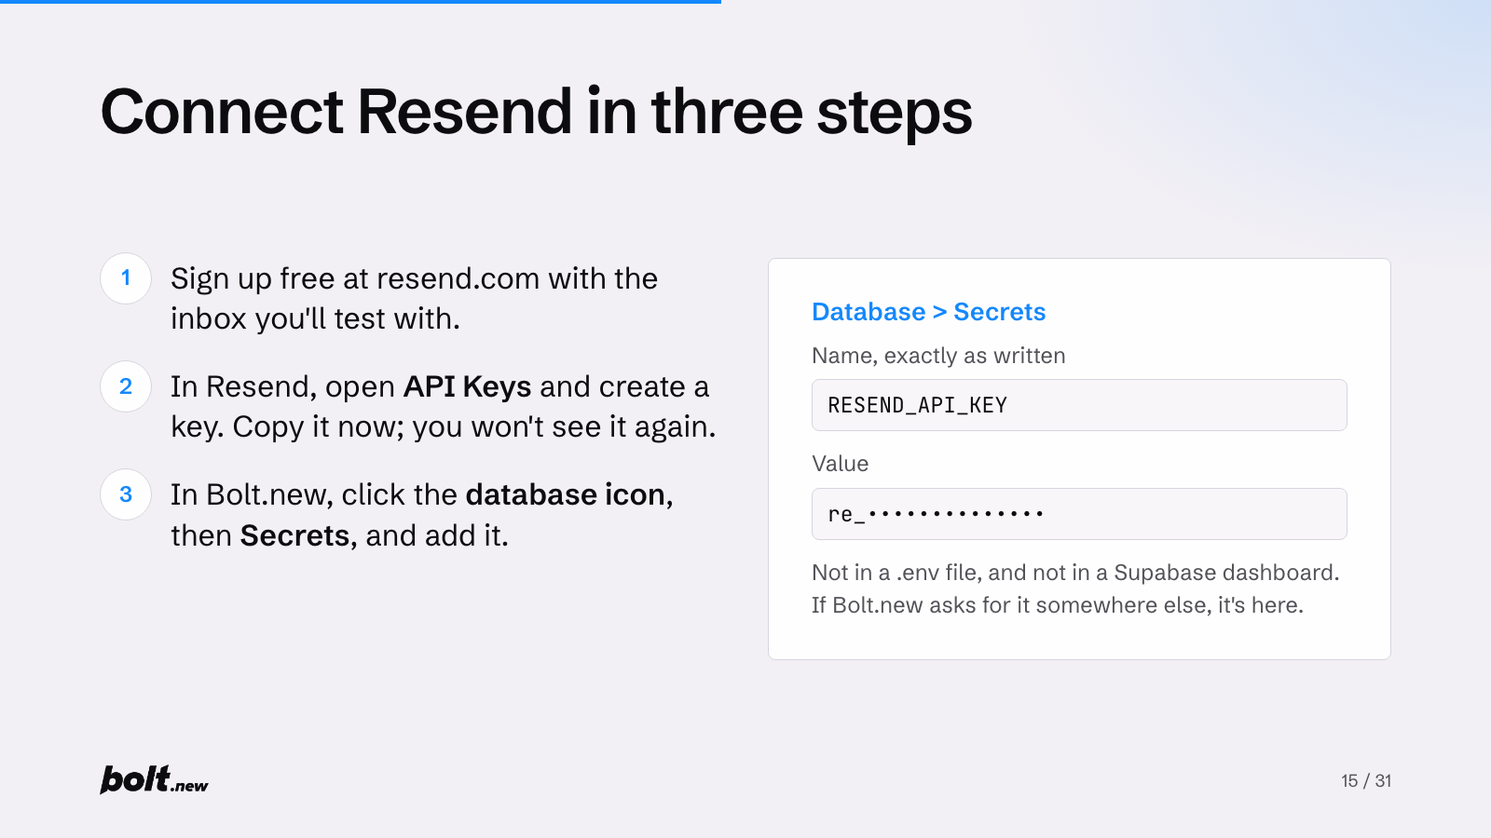
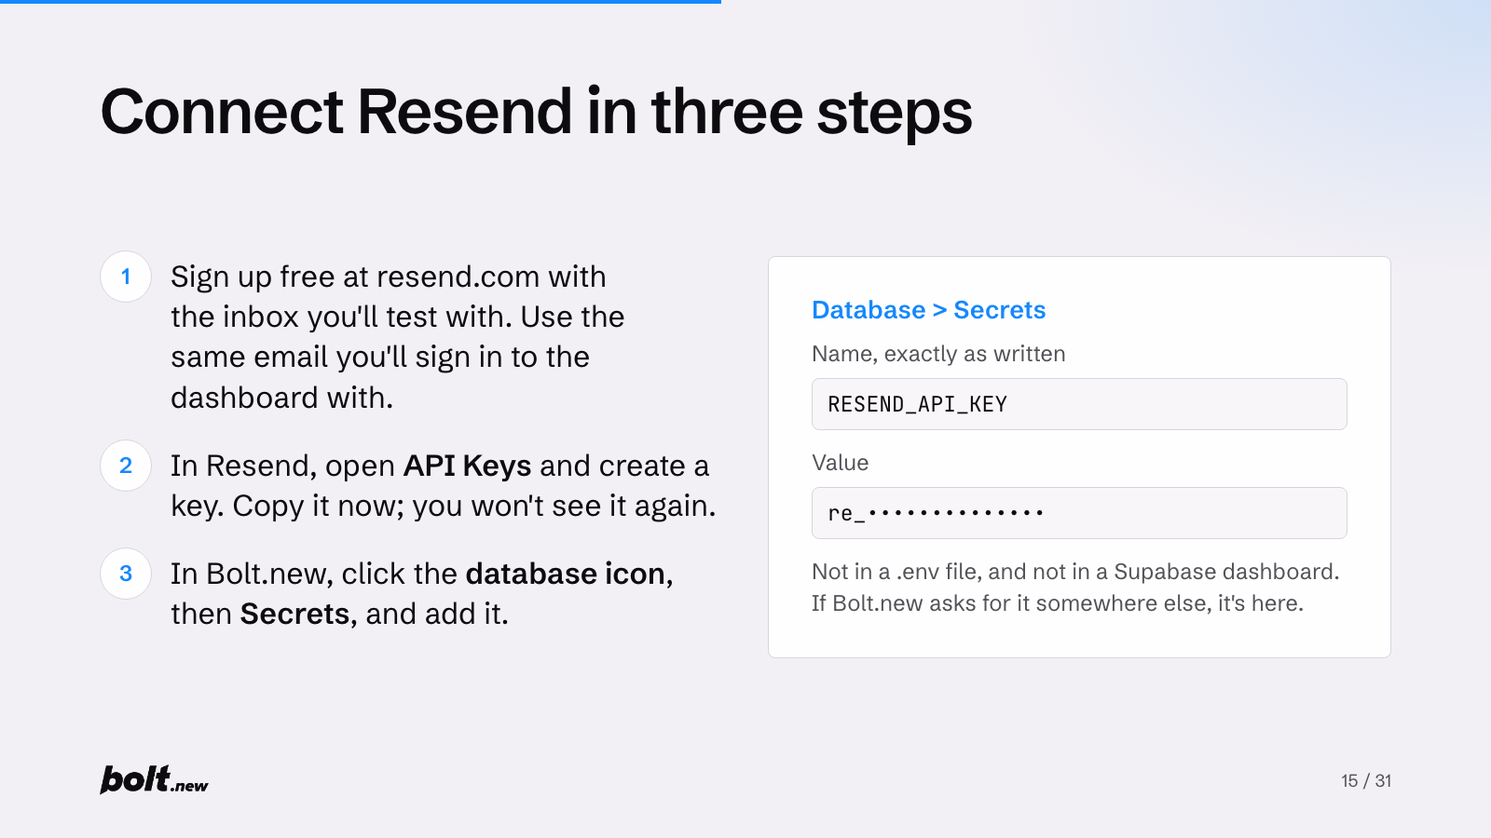
Sync slides to new prompts.md and update go-live notes

diff --git a/index.html b/index.html
@@ -42,6 +42,7 @@ p{margin:0}
 .dark .kicker{color:#9CCBFF}
 .title-meta{font-size:26px;color:#D6D5DE;margin-top:40px}
 .small{font-size:22px;color:var(--muted);line-height:1.45}
+.dmarc{margin-top:22px;font-size:19px}
 .wordmark{position:absolute;left:107px;bottom:46px;width:118px;height:33px;background:url(assets/boltnew-wordmark-dark.png) left center/contain no-repeat;font-size:0;color:transparent}
 .dark .wordmark{background-image:url(assets/boltnew-wordmark-light.png)}
 .folio{position:absolute;right:107px;bottom:50px;font-size:19px;color:var(--muted)}
@@ -228,7 +229,7 @@ button.copy:focus-visible,.navbtn:focus-visible{outline:3px solid #9CCBFF;outlin
     <li style="margin-bottom:16px"><span>Connect Resend and send a win-back email to yourself <span class="small">&nbsp;12 min</span></span></li>
     <li style="margin-bottom:16px"><span>Brand the email and make it editable <span class="small">&nbsp;6 min</span></span></li>
     <li style="margin-bottom:16px"><span>Track your repeat-customer rate <span class="small">&nbsp;5 min</span></span></li>
-    <li style="margin-bottom:16px"><span>Go live from your own email domain <span class="small">&nbsp;8 min</span></span></li>
+    <li style="margin-bottom:16px"><span>Go live from your own email domain, as time permits <span class="small">&nbsp;8 min</span></span></li>
   </ol>
   <p class="small" style="margin-top:12px">Bring a free Resend account, signed up with the inbox you want test emails sent to. We'll provide the sample data.</p>
   <div class="wordmark">bolt.new</div><div class="folio"></div>
@@ -326,7 +327,7 @@ Do not build: payments, a cart, or logins.</pre>
   </table>
   <p class="small" style="margin-top:26px">Rules of thumb. Your own orders beat this table: find a few regulars, count the weeks between their visits, and double it.</p>
   <div class="wordmark">bolt.new</div><div class="folio"></div>
-  <aside class="notes"><p class="say">"Too short and you're emailing people who were about to come back anyway. Too long and they've already found someone else. Start at one and a half to two times your usual gap."</p><p>Ask chat: what's your usual gap, and what window would you pick? Read two answers.</p></aside>
+  <aside class="notes"><p class="say">"Too short and you're emailing people who were about to come back anyway. Too long and they've already found someone else. Start at one and a half to two times your usual gap."</p><p>Ask chat: what's your usual gap, and what window would you pick? Read two answers.</p><p>If asked who belongs on the list: regulars only. Appointments: skip anyone with a future booking. Classes: 2 to 3 missed weeks. Seasonal: compare to the same season last year. Leave off anyone who opted out or was emailed in the last 14 days.</p></aside>
 </section>
 
 <!-- 8 -->
@@ -362,13 +363,13 @@ Do not build: payments, a cart, or logins.</pre>
       <div class="prompt-head"><span>Paste into the same project as the site. Replace [YOUR EMAIL]</span><button class="copy" data-copy="p1">Copy prompt</button></div>
       <pre class="prompt big" id="p1">Add a private win-back dashboard at /dashboard. Don't link it from the site. Regulars buy 12 oz bags about every four weeks.
 
-- Email and password sign-in, limited to [YOUR EMAIL]. The database itself must check that email on every table, now and in later changes, so another account sees nothing even if it signs up. Site visitors can still add orders but never read them.
-- Use the existing orders table. Add an "Import CSV" button for a file with columns name, email, item, amount, date. Importing the same file twice adds no duplicates. Add a "Clear all orders" button.
+- A sign-in page with both Sign in and Create account, by email and password, limited to [YOUR EMAIL]. The database itself must check that email on every table, now and in later changes, so another account sees nothing even if it signs up. Site visitors can still add orders but never read them.
+- Use the existing orders table. Add an "Import CSV" button for a file with columns name, email, item, amount, date, read with a proper CSV parser so a quoted value with a comma, like "Ethiopia Guji, 12 oz", stays in one column. Importing adds to what's there: it removes the example rows first, keeps every other order, and skips rows already imported. Add a "Clear all orders" button.
 - Start with example orders so the page isn't empty: 10 customers who order about every four weeks (7 still ordering, 3 whose last order was 7, 9, and 11 weeks ago) and 4 one-time buyers, using the site's coffees and example.com email addresses. Tag them "Example data" and remove them when I import a CSV.
 - Gone quiet: customers with 2 or more orders whose last order was over 6 weeks ago, with a picker from 4 to 12 weeks. Show name, last item, weeks since last order, and total orders, most orders first.
-- Repeat-customer rate: of the customers who ordered in the last 30 days, the percent who also have an order dated before those 30 days began. A customer whose only orders fall inside the period is new. Show it large with the change from the 30 days before, then the last six 30-day periods as simple bars, each worked out the same way.
+- Repeat-customer rate: of the customers who ordered in the last 30 days, the percent who also have an order dated before those 30 days began. A customer whose only orders fall inside the period is new. Show it large with the change from the 30 days before, then the last six 30-day periods as filled bars in the accent color, each one as tall as its percent and worked out the same way.
 
-Use the site's fonts and colors. No gradients, cards, or emoji.</pre>
+Use the site's fonts and colors. Solid buttons with readable text, never outline-only. No gradients, cards, or emoji.</pre>
     </div>
     <div class="side-notes">
       <div class="panel"><h3>Same project as the site</h3><p>It reads the orders table the reservation form writes to, plus anything you import.</p></div>
@@ -452,7 +453,7 @@ Use the site's fonts and colors. No gradients, cards, or emoji.</pre>
   <h2>Connect Resend in three steps</h2>
   <div class="cols">
     <ol class="steps">
-      <li><span>Sign up free at resend.com with the inbox you'll test with.</span></li>
+      <li><span>Sign up free at resend.com with the inbox you'll test with. Use the same email you'll sign in to the dashboard with.</span></li>
       <li><span>In Resend, open <b>API Keys</b> and create a key. Copy it now; you won't see it again.</span></li>
       <li><span>In Bolt.new, click the <b>database icon</b>, then <b>Secrets</b>, and add it.</span></li>
     </ol>
@@ -478,9 +479,10 @@ Use the site's fonts and colors. No gradients, cards, or emoji.</pre>
       <pre class="prompt big" id="p2">Add a "Send win-back email" button to each Gone quiet row, sent through Resend.
 
 - Send from a server function using a secret named RESEND_API_KEY, which I'll add in Database &gt; Secrets. Only [YOUR EMAIL] can use it.
-- Test mode: send every email to [YOUR EMAIL] from onboarding@resend.dev, with a line saying who it would have gone to.
+- The page sends only the customer's email. The function looks up their name, last item, and weeks since last order, and builds the email itself.
+- Test mode: send every email to [YOUR EMAIL], the email my Resend account uses, from onboarding@resend.dev, with a line saying who it would have gone to.
 - Subject: "{first name}, it's been a while". Body: "Hi {first name}, it's been {weeks} weeks since your last {last item}. We just roasted a fresh batch, and I'd love to set one aside for you. Just reply to this email." Signed Ridgeline Coffee Roasters.
-- Show a preview first. After sending, mark the row "Emailed" with the date. Show any error word for word.</pre>
+- Show the email in a preview first: a pop-up over a dark backdrop that fits the screen, wraps long lines, and scrolls inside if needed. After sending, mark the row "Emailed" with the date. Show any error word for word.</pre>
     </div>
     <div class="side-notes">
       <div class="panel"><h3>A server function sends it</h3><p>The key stays on the server, and only your signed-in email can press Send.</p></div>
@@ -557,7 +559,7 @@ Use the site's fonts and colors. No gradients, cards, or emoji.</pre>
 
 - Add an "Email template" page to the dashboard with the subject and body saved in the database, editable by me. Keep {first name}, {weeks}, and {last item} as fill-ins, listed beside the editor.
 - In the preview, let me edit the subject and body for that one customer before sending.
-- Send it as a branded HTML email: "Ridgeline Coffee Roasters" in a serif heading in #2F5D50, the body in a readable sans serif on white, and a footer with "Saturdays at the farmers market, 8 am to 1 pm" and a "Reserve for pickup" link to the site. Also send a plain-text version.
+- Send it as a branded HTML email: "Ridgeline Coffee Roasters" in a serif heading in #2F5D50, the body in a readable sans serif on white, and a footer with "Saturdays at the farmers market, 8 am to 1 pm" and a "Reserve for pickup" link to the site. Line breaks in the body become paragraphs; never show "\n" as text. Also send a plain-text version.
 - Only [YOUR EMAIL] can read or change the template.</pre>
     </div>
     <div class="side-notes">
@@ -625,12 +627,15 @@ Use the site's fonts and colors. No gradients, cards, or emoji.</pre>
 <section class="slide">
   <h2>Go live: send from your own domain</h2>
   <div class="cols" style="grid-template-columns:1.35fr 1fr">
+    <div>
     <ol class="steps">
       <li><span>Buy a domain in your project: gear icon &gt; All project settings &gt; Domains &amp; Hosting &gt; Buy a new domain. It attaches to the project right away.</span></li>
       <li><span>In Resend, open <b>Domains</b>, then <b>Add Domain</b>, and enter that domain. Not a bolt.host address.</span></li>
       <li><span>Add each record Resend shows, exactly as shown: profile icon &gt; Settings &gt; Cloud &gt; Custom domains &gt; &#8226;&#8226;&#8226; &gt; Open domain settings &gt; Add new record. In Name, enter only the part before your domain, like send.</span></li>
       <li><span>Wait for <b>Verified</b>, usually 10 to 20 minutes, sometimes a few hours. Then run Prompt 4.</span></li>
     </ol>
+    <p class="small dmarc">Optional: add a TXT record named _dmarc with the value v=DMARC1; p=none; to help a new domain reach the inbox.</p>
+    </div>
     <div>
       <div class="panel"><h3>Why it matters</h3><p class="body">A verified domain proves the email is really from you, so it reaches inboxes instead of spam, and test mode can turn off.</p></div>
       <div class="domains" aria-label="Example Domains row in Resend">
@@ -640,7 +645,7 @@ Use the site's fonts and colors. No gradients, cards, or emoji.</pre>
     </div>
   </div>
   <div class="wordmark">bolt.new</div><div class="folio"></div>
-  <aside class="notes"><p>Show your Resend Domains page with the domain already Verified. You set this up before the session; never wait on DNS live.</p><p class="say">"Today every email came to you, and it landed in spam. A verified domain fixes both: the same button reaches real customers, from an address that proves it's you."</p></aside>
+  <aside class="notes"><p>Show the domain already Verified in Resend. If time is short, skip Prompt 4: show one Send a live test from Backup B, then move on.</p></aside>
 </section>
 
 <!-- 26 -->
@@ -649,18 +654,18 @@ Use the site's fonts and colors. No gradients, cards, or emoji.</pre>
   <div class="prompt-wrap">
     <div class="prompt-box">
       <div class="prompt-head"><span>Run after your domain shows Verified in Resend</span><button class="copy" data-copy="p4">Copy prompt</button></div>
-      <pre class="prompt big" id="p4">My domain [YOURDOMAIN.COM] is verified in Resend. Add a "Test mode" switch to the dashboard, on by default. When it's off, send each email to the customer's own address from "Ridgeline Coffee Roasters &lt;hello@[YOURDOMAIN.COM]&gt;" with reply-to [YOUR EMAIL], and drop the test-mode line. With test mode off, the preview shows the real address and asks me to confirm before sending.
+      <pre class="prompt big" id="p4">My domain [YOURDOMAIN.COM] is verified in Resend. Add a Test mode switch to the dashboard with its state written beside it. It starts on, stays on after a reload, and the email preview always says which mode is on. With test mode off, send each email to the customer's own address from "Ridgeline Coffee Roasters &lt;hello@[YOURDOMAIN.COM]&gt;" with reply-to [YOUR EMAIL], drop the test-mode line, and have the preview show the real address and ask me to confirm before sending. Add "Send a live test" to the preview: it sends that exact email from hello@[YOURDOMAIN.COM] to an address I type, whatever the switch says.
 
-Add a footer to every email with my business address, [BUSINESS ADDRESS], and "Prefer not to hear from us? Reply and we'll stop." Add a "Don't email" toggle for each customer that the send button respects.</pre>
+Add a footer to every email with my business address, [BUSINESS ADDRESS], and "Prefer not to hear from us? Reply and we'll stop." Give each Gone quiet row a small "..." menu with "Mark as opted out" (or "Undo opt-out"). The Status column shows one thing per row: a red "Opted out" tag, otherwise "Emailed" with the date, otherwise the send button. Opted-out customers can't be emailed.</pre>
     </div>
     <div class="side-notes">
-      <div class="panel"><h3>A switch, not a one-way change</h3><p>Test mode stays on until you flip it, and live sends ask you to confirm the real address.</p></div>
+      <div class="panel"><h3>A switch that starts on</h3><p>Test mode stays on until you flip it, and live sends ask you to confirm.</p></div>
       <div class="panel"><h3>The footer every email needs</h3><p>Your address and an easy way to say no thanks.</p></div>
-      <div class="panel"><h3>Try it on yourself first</h3><p>Add one customer with your own email, then send to them before anyone else.</p></div>
+      <div class="panel"><h3>Try it on yourself first</h3><p>Press Send a live test and type your own email before emailing anyone.</p></div>
     </div>
   </div>
   <div class="folio"></div>
-  <aside class="notes"><p>Before pasting: import demo-customer.csv (Jordan Ellis, your personal email, quiet 9 weeks). Paste Prompt 4 into Backup A. When it lands, flip Test mode off, send to Jordan Ellis only, and open your personal inbox: it should land in the inbox, from hello@ your domain.</p><p class="say">"Same button, real address, your own domain. That's the difference between a demo and a tool you use on Monday."</p><p>Never press Send on the sample customers with test mode off: example.com addresses bounce, and bounces hurt your domain. Backup B if the build stalls.</p></aside>
+  <aside class="notes"><p>Paste Prompt 4. Open Marcus Hill's preview, press Send a live test, type your personal email, and show it arriving from hello@ your domain. Leave Test mode on; never send to the sample customers with it off, since example.com addresses bounce.</p></aside>
 </section>
 
 <!-- 27 -->

diff --git a/prompts.md b/prompts.md
@@ -1,6 +1,6 @@
 # Prompts: Build a win-back dashboard (Bolt.new workshop, Nov 19)
 
-Run the prompts in order in one Bolt.new project. Replace [YOUR EMAIL] with the email you used to sign up for Resend. {braces} are filled in for each customer.
+Run the prompts in order in one Bolt.new project. Use one email for everything: replace [YOUR EMAIL] with the email you signed up to Resend with, and use it to sign in to the dashboard. {braces} are filled in for each customer.
 
 ## Prompt 0: Ridgeline's website
 
@@ -21,13 +21,13 @@ Do not build: payments, a cart, or logins.
 ```
 Add a private win-back dashboard at /dashboard. Don't link it from the site. Regulars buy 12 oz bags about every four weeks.
 
-- Email and password sign-in, limited to [YOUR EMAIL]. The database itself must check that email on every table, now and in later changes, so another account sees nothing even if it signs up. Site visitors can still add orders but never read them.
-- Use the existing orders table. Add an "Import CSV" button for a file with columns name, email, item, amount, date. Importing the same file twice adds no duplicates. Add a "Clear all orders" button.
+- A sign-in page with both Sign in and Create account, by email and password, limited to [YOUR EMAIL]. The database itself must check that email on every table, now and in later changes, so another account sees nothing even if it signs up. Site visitors can still add orders but never read them.
+- Use the existing orders table. Add an "Import CSV" button for a file with columns name, email, item, amount, date, read with a proper CSV parser so a quoted value with a comma, like "Ethiopia Guji, 12 oz", stays in one column. Importing adds to what's there: it removes the example rows first, keeps every other order, and skips rows already imported. Add a "Clear all orders" button.
 - Start with example orders so the page isn't empty: 10 customers who order about every four weeks (7 still ordering, 3 whose last order was 7, 9, and 11 weeks ago) and 4 one-time buyers, using the site's coffees and example.com email addresses. Tag them "Example data" and remove them when I import a CSV.
 - Gone quiet: customers with 2 or more orders whose last order was over 6 weeks ago, with a picker from 4 to 12 weeks. Show name, last item, weeks since last order, and total orders, most orders first.
-- Repeat-customer rate: of the customers who ordered in the last 30 days, the percent who also have an order dated before those 30 days began. A customer whose only orders fall inside the period is new. Show it large with the change from the 30 days before, then the last six 30-day periods as simple bars, each worked out the same way.
+- Repeat-customer rate: of the customers who ordered in the last 30 days, the percent who also have an order dated before those 30 days began. A customer whose only orders fall inside the period is new. Show it large with the change from the 30 days before, then the last six 30-day periods as filled bars in the accent color, each one as tall as its percent and worked out the same way.
 
-Use the site's fonts and colors. No gradients, cards, or emoji.
+Use the site's fonts and colors. Solid buttons with readable text, never outline-only. No gradients, cards, or emoji.
 ```
 
 Then download sample-orders.csv, sign up at /dashboard, and click Import CSV. To use your real customers later, export orders from Square, Shopify, Etsy, your booking tool, or a spreadsheet, rename the headers to name, email, item, amount, date, and import.
@@ -40,9 +40,10 @@ Before pasting: sign up free at resend.com, create an API key, then in Bolt.new 
 Add a "Send win-back email" button to each Gone quiet row, sent through Resend.
 
 - Send from a server function using a secret named RESEND_API_KEY, which I'll add in Database > Secrets. Only [YOUR EMAIL] can use it.
-- Test mode: send every email to [YOUR EMAIL] from onboarding@resend.dev, with a line saying who it would have gone to.
+- The page sends only the customer's email. The function looks up their name, last item, and weeks since last order, and builds the email itself.
+- Test mode: send every email to [YOUR EMAIL], the email my Resend account uses, from onboarding@resend.dev, with a line saying who it would have gone to.
 - Subject: "{first name}, it's been a while". Body: "Hi {first name}, it's been {weeks} weeks since your last {last item}. We just roasted a fresh batch, and I'd love to set one aside for you. Just reply to this email." Signed Ridgeline Coffee Roasters.
-- Show a preview first. After sending, mark the row "Emailed" with the date. Show any error word for word.
+- Show the email in a preview first: a pop-up over a dark backdrop that fits the screen, wraps long lines, and scrolls inside if needed. After sending, mark the row "Emailed" with the date. Show any error word for word.
 ```
 
 Not using Resend? Two other ways work with the same dashboard: send the message from your own inbox, or export the list into the email tool you already use (Mailchimp, Klaviyo, Square, Shopify Email).
@@ -54,18 +55,18 @@ Make the win-back email editable and branded.
 
 - Add an "Email template" page to the dashboard with the subject and body saved in the database, editable by me. Keep {first name}, {weeks}, and {last item} as fill-ins, listed beside the editor.
 - In the preview, let me edit the subject and body for that one customer before sending.
-- Send it as a branded HTML email: "Ridgeline Coffee Roasters" in a serif heading in #2F5D50, the body in a readable sans serif on white, and a footer with "Saturdays at the farmers market, 8 am to 1 pm" and a "Reserve for pickup" link to the site. Also send a plain-text version.
+- Send it as a branded HTML email: "Ridgeline Coffee Roasters" in a serif heading in #2F5D50, the body in a readable sans serif on white, and a footer with "Saturdays at the farmers market, 8 am to 1 pm" and a "Reserve for pickup" link to the site. Line breaks in the body become paragraphs; never show "\n" as text. Also send a plain-text version.
 - Only [YOUR EMAIL] can read or change the template.
 ```
 
 ## Prompt 4: go live from your own domain
 
-Before pasting: in Resend, open Domains, then Add Domain, and enter a domain you own (not a bolt.host address). Add the DNS records Resend shows where your domain lives (Bolt.new: Settings, Cloud, Custom domains, Open domain settings, Add new record). Wait for Verified, usually 10 to 20 minutes, sometimes a few hours. Then add one customer with your own email and send to them first.
+Before pasting: in Resend, open Domains, then Add Domain, and enter a domain you own (not a bolt.host address). Add the DNS records Resend shows where your domain lives (Bolt.new: Settings, Cloud, Custom domains, Open domain settings, Add new record). Wait for Verified, usually 10 to 20 minutes, sometimes a few hours. Optional, for better inbox placement: add a TXT record named _dmarc with the value v=DMARC1; p=none;. Then use Send a live test to your own inbox before emailing any customer.
 
 ```
-My domain [YOURDOMAIN.COM] is verified in Resend. Add a "Test mode" switch to the dashboard, on by default. When it's off, send each email to the customer's own address from "Ridgeline Coffee Roasters <hello@[YOURDOMAIN.COM]>" with reply-to [YOUR EMAIL], and drop the test-mode line. With test mode off, the preview shows the real address and asks me to confirm before sending.
+My domain [YOURDOMAIN.COM] is verified in Resend. Add a Test mode switch to the dashboard with its state written beside it. It starts on, stays on after a reload, and the email preview always says which mode is on. With test mode off, send each email to the customer's own address from "Ridgeline Coffee Roasters <hello@[YOURDOMAIN.COM]>" with reply-to [YOUR EMAIL], drop the test-mode line, and have the preview show the real address and ask me to confirm before sending. Add "Send a live test" to the preview: it sends that exact email from hello@[YOURDOMAIN.COM] to an address I type, whatever the switch says.
 
-Add a footer to every email with my business address, [BUSINESS ADDRESS], and "Prefer not to hear from us? Reply and we'll stop." Add a "Don't email" toggle for each customer that the send button respects.
+Add a footer to every email with my business address, [BUSINESS ADDRESS], and "Prefer not to hear from us? Reply and we'll stop." Give each Gone quiet row a small "..." menu with "Mark as opted out" (or "Undo opt-out"). The Status column shows one thing per row: a red "Opted out" tag, otherwise "Emailed" with the date, otherwise the send button. Opted-out customers can't be emailed.
 ```
 
 ## Bonus prompts
@@ -95,11 +96,11 @@ Builds the dashboard in a fresh project without the site.
 ```
 Build a private win-back dashboard for Ridgeline Coffee Roasters, where regulars buy 12 oz bags of coffee about every four weeks.
 
-- Email and password sign-in, limited to [YOUR EMAIL]. The database itself must check that email on every table, now and in later changes, so another account sees nothing even if it signs up.
-- An orders table (name, email, item, amount, date) with an "Import CSV" button for files with those columns. Importing the same file twice adds no duplicates. Add a "Clear all orders" button.
+- A sign-in page with both Sign in and Create account, by email and password, limited to [YOUR EMAIL]. The database itself must check that email on every table, now and in later changes, so another account sees nothing even if it signs up.
+- An orders table (name, email, item, amount, date) with an "Import CSV" button for files with those columns, read with a proper CSV parser so a quoted value with a comma, like "Ethiopia Guji, 12 oz", stays in one column. Importing adds to what's there: it removes the example rows first, keeps every other order, and skips rows already imported. Add a "Clear all orders" button.
 - Start with example orders so the page isn't empty: 10 customers who order about every four weeks (7 still ordering, 3 whose last order was 7, 9, and 11 weeks ago) and 4 one-time buyers, all with example.com email addresses. Tag them "Example data" and remove them when I import a CSV.
 - Gone quiet: customers with 2 or more orders whose last order was over 6 weeks ago, with a picker from 4 to 12 weeks. Show name, last item, weeks since last order, and total orders, most orders first.
-- Repeat-customer rate: of the customers who ordered in the last 30 days, the percent who also have an order dated before those 30 days began. A customer whose only orders fall inside the period is new. Show it large with the change from the 30 days before, then the last six 30-day periods as simple bars, each worked out the same way.
+- Repeat-customer rate: of the customers who ordered in the last 30 days, the percent who also have an order dated before those 30 days began. A customer whose only orders fall inside the period is new. Show it large with the change from the 30 days before, then the last six 30-day periods as filled bars in the accent color, each one as tall as its percent and worked out the same way.
 
-Style: calm and plain, like a ledger. Young Serif for the title, IBM Plex Sans for text, accent #2F5D50. No gradients, cards, or emoji.
+Style: calm and plain, like a ledger. Young Serif for the title, IBM Plex Sans for text, accent #2F5D50. Solid buttons with readable text, never outline-only. No gradients, cards, or emoji.
 ```
